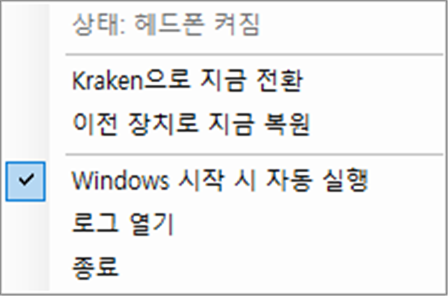
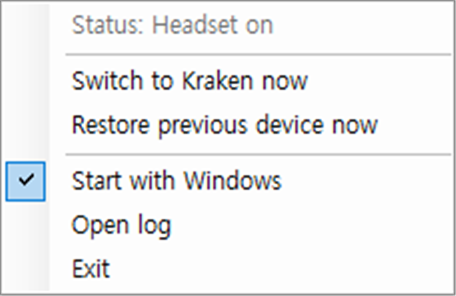
Localize UI: English by default, Korean when Windows UI language is Korean
- language=auto|en|ko in KrakenAutoSwitch.ini
- English log messages
- Add tools/make-screenshots.ps1, English and Korean tray menu screenshots
- README: fix ini example (comments on their own lines)

diff --git a/KrakenAutoSwitch.cs b/KrakenAutoSwitch.cs
@@ -36,28 +36,35 @@ class TrayApp : ApplicationContext
     readonly string dir = AppDomain.CurrentDomain.BaseDirectory;
     readonly NotifyIcon tray = new NotifyIcon();
     readonly SynchronizationContext ui = SynchronizationContext.Current ?? new WindowsFormsSynchronizationContext();
-    readonly ToolStripMenuItem stateItem = new ToolStripMenuItem("상태: 알 수 없음") { Enabled = false };
-    readonly ToolStripMenuItem autoStartItem = new ToolStripMenuItem("Windows 시작 시 자동 실행");
+    ToolStripMenuItem stateItem, autoStartItem;
     int state = -1; // -1 unknown, 0 off, 1 on
     string gameName = "Razer Kraken V4 - Game", chatName = "Razer Kraken V4 - Chat", fallbackName = "";
-    string[] saved = new string[3]; // 직전 기본 장치 id (console, multimedia, communications)
+    string lang = "auto"; // auto | en | ko
+    bool ko;
+    string[] saved = new string[3]; // previous default device ids (console, multimedia, communications)
+
+    // UI text: English by default, Korean when the OS UI language is Korean (or language=ko)
+    string T(string en, string kr) { return ko ? kr : en; }
 
     public TrayApp()
     {
         LoadConfig();
         LoadSaved();
+        ko = lang == "ko" || (lang == "auto" && System.Globalization.CultureInfo.CurrentUICulture.TwoLetterISOLanguageName == "ko");
 
+        stateItem = new ToolStripMenuItem("") { Enabled = false };
+        autoStartItem = new ToolStripMenuItem(T("Start with Windows", "Windows 시작 시 자동 실행"));
         var menu = new ContextMenuStrip();
         menu.Items.Add(stateItem);
         menu.Items.Add(new ToolStripSeparator());
-        menu.Items.Add("Kraken으로 지금 전환", null, (s, e) => SwitchTo(true));
-        menu.Items.Add("이전 장치로 지금 복원", null, (s, e) => SwitchTo(false));
+        menu.Items.Add(T("Switch to Kraken now", "Kraken으로 지금 전환"), null, (s, e) => SwitchTo(true));
+        menu.Items.Add(T("Restore previous device now", "이전 장치로 지금 복원"), null, (s, e) => SwitchTo(false));
         menu.Items.Add(new ToolStripSeparator());
         autoStartItem.Checked = IsAutoStart();
         autoStartItem.Click += (s, e) => { SetAutoStart(!IsAutoStart()); autoStartItem.Checked = IsAutoStart(); };
         menu.Items.Add(autoStartItem);
-        menu.Items.Add("로그 열기", null, (s, e) => { try { System.Diagnostics.Process.Start(Path.Combine(dir, "KrakenAutoSwitch.log")); } catch { } });
-        menu.Items.Add("종료", null, (s, e) => { tray.Visible = false; Application.Exit(); });
+        menu.Items.Add(T("Open log", "로그 열기"), null, (s, e) => { try { System.Diagnostics.Process.Start(Path.Combine(dir, "KrakenAutoSwitch.log")); } catch { } });
+        menu.Items.Add(T("Exit", "종료"), null, (s, e) => { tray.Visible = false; Application.Exit(); });
         tray.ContextMenuStrip = menu;
         SetState(-1);
         tray.Visible = true;
@@ -70,13 +77,13 @@ class TrayApp : ApplicationContext
     {
         string p = Path.Combine(dir, "KrakenAutoSwitch.ini");
         if (!File.Exists(p))
-            File.WriteAllText(p, "; 장치 이름은 '포함' 일치입니다 (소리 설정에 보이는 이름 일부).\r\ngame=" + gameName + "\r\nchat=" + chatName + "\r\n; 헤드폰을 끌 때 저장된 직전 장치가 없으면 이 장치로 전환 (비우면 아무것도 안 함)\r\nfallback=\r\n", Encoding.UTF8);
+            File.WriteAllText(p, "; Device names are substring matches (part of the name shown in Sound settings). / 장치 이름은 '포함' 일치입니다.\r\ngame=" + gameName + "\r\nchat=" + chatName + "\r\n; Device to switch to on power-off if no previous device was remembered (empty = do nothing).\r\n; 헤드폰을 끌 때 저장된 직전 장치가 없으면 이 장치로 전환 (비우면 아무것도 안 함)\r\nfallback=\r\n; UI language: auto (follow Windows) | en | ko\r\nlanguage=auto\r\n", Encoding.UTF8);
         foreach (var line in File.ReadAllLines(p, Encoding.UTF8))
         {
             int i = line.IndexOf('=');
             if (line.StartsWith(";") || i < 0) continue;
             string k = line.Substring(0, i).Trim().ToLower(), v = line.Substring(i + 1).Trim();
-            if (k == "game") gameName = v; else if (k == "chat") chatName = v; else if (k == "fallback") fallbackName = v;
+            if (k == "game") gameName = v; else if (k == "chat") chatName = v; else if (k == "fallback") fallbackName = v; else if (k == "language") lang = v.ToLower();
         }
     }
 
@@ -122,9 +129,9 @@ class TrayApp : ApplicationContext
             tray.Icon = Icon.FromHandle(bmp.GetHicon());
             if (old != null) old.Dispose();
         }
-        string t = s == 1 ? "헤드폰 켜짐" : s == 0 ? "헤드폰 꺼짐" : "헤드폰 상태 알 수 없음 (다음 on/off 때 확정)";
-        stateItem.Text = "상태: " + t;
-        tray.Text = "Kraken 자동 전환 - " + t;
+        string t = s == 1 ? T("Headset on", "헤드폰 켜짐") : s == 0 ? T("Headset off", "헤드폰 꺼짐") : T("Headset state unknown (until next on/off)", "헤드폰 상태 알 수 없음 (다음 on/off 때 확정)");
+        stateItem.Text = T("Status: ", "상태: ") + t;
+        tray.Text = T("Kraken Auto Switch - ", "Kraken 자동 전환 - ") + t;
     }
 
     // ---------- HID 감시 ----------
@@ -137,7 +144,7 @@ class TrayApp : ApplicationContext
                 string path = Hid.FindPath(0x1532, 0x056C, 0xFF14);
                 if (path != null) Hid.ReadLoop(path, OnReport);
             }
-            catch (Exception ex) { Log("HID 오류: " + ex.Message); }
+            catch (Exception ex) { Log("HID error: " + ex.Message); }
             Thread.Sleep(2000); // 동글 재연결 / 절전 복귀 대비
         }
     }
@@ -153,7 +160,7 @@ class TrayApp : ApplicationContext
     void Apply(int s)
     {
         if (s == state) return;
-        Log("헤드폰 " + (s == 1 ? "ON" : "OFF"));
+        Log("Headset " + (s == 1 ? "ON" : "OFF"));
         SetState(s);
         SwitchTo(s == 1);
     }
@@ -168,13 +175,13 @@ class TrayApp : ApplicationContext
             var game = find(gameName); var chat = find(chatName) ?? game;
             if (kraken)
             {
-                if (game == null) { Log("Kraken Game 장치를 찾지 못함"); return; }
+                if (game == null) { Log("Kraken Game device not found"); return; }
                 // 이미 Kraken 이 기본이 아닐 때만 '직전 장치'로 저장
                 var cur = new[] { Audio.GetDefault(0), Audio.GetDefault(1), Audio.GetDefault(2) };
                 bool curIsKraken = cur[0] == game.Id || (chat != null && cur[0] == chat.Id);
                 if (!curIsKraken) { saved = cur; SaveSaved(); }
                 Audio.SetDefault(game.Id, 0); Audio.SetDefault(game.Id, 1); Audio.SetDefault(chat.Id, 2);
-                Log("-> " + game.Name + " / 통신: " + chat.Name);
+                Log("-> " + game.Name + " / comms: " + chat.Name);
             }
             else
             {
@@ -188,11 +195,11 @@ class TrayApp : ApplicationContext
                     if (id == null) continue;
                     Audio.SetDefault(id, role);
                 }
-                Log("복원: " + string.Join(" | ", Array.ConvertAll(new[] { Audio.GetDefault(0), Audio.GetDefault(1), Audio.GetDefault(2) }, id => devs.Find(d => d.Id == id) != null ? devs.Find(d => d.Id == id).Name : "?")));
+                Log("Restored: " + string.Join(" | ", Array.ConvertAll(new[] { Audio.GetDefault(0), Audio.GetDefault(1), Audio.GetDefault(2) }, id => devs.Find(d => d.Id == id) != null ? devs.Find(d => d.Id == id).Name : "?")));
             }
-            tray.ShowBalloonTip(1500, "Kraken 자동 전환", kraken ? "Kraken 으로 출력 전환" : "이전 출력 장치로 복원", ToolTipIcon.None);
+            tray.ShowBalloonTip(1500, T("Kraken Auto Switch", "Kraken 자동 전환"), kraken ? T("Output switched to Kraken", "Kraken 으로 출력 전환") : T("Restored previous output device", "이전 출력 장치로 복원"), ToolTipIcon.None);
         }
-        catch (Exception ex) { Log("전환 오류: " + ex); }
+        catch (Exception ex) { Log("Switch error: " + ex); }
     }
 }
 

diff --git a/README.md b/README.md
@@ -32,8 +32,8 @@ Windows keeps the dongle's audio devices "connected" even when the headset is of
    Download `KrakenAutoSwitch.exe` from [Releases](https://github.com/TresureStrong-Gold/razer-kraken-v4-auto-switch/releases/latest).
 2. 원하는 폴더에 넣고 실행 (설정·로그 파일이 같은 폴더에 생성됩니다. `Downloads`보다 `%LOCALAPPDATA%\KrakenAutoSwitch` 같은 고정 폴더를 권장)
    Put it in a permanent folder (settings and log files are created next to it) and run it.
-3. 트레이 아이콘 우클릭 → "Windows 시작 시 자동 실행" 체크
-   Right-click the tray icon and enable "Windows 시작 시 자동 실행" (start with Windows).
+3. 트레이 아이콘 우클릭 → "Start with Windows"(한국어 Windows 에서는 "Windows 시작 시 자동 실행") 체크
+   Right-click the tray icon and enable "Start with Windows".
 
 > ⚠ **SmartScreen 경고 / SmartScreen warning**
 > 코드 서명이 없는 개인 프로젝트라 "Windows의 PC 보호" 경고가 뜰 수 있습니다. "추가 정보 → 실행"을 누르세요. 못 미더우면 아래 방법 2로 소스에서 직접 빌드할 수 있고, Releases 의 SHA-256 으로 파일을 검증할 수 있습니다.
@@ -45,7 +45,9 @@ Run `build.bat` (uses only the .NET Framework compiler that ships with Windows; 
 
 ## 사용법 / Usage
 
-![Tray menu](docs/tray-menu.png)
+English UI (default) / 한국어 UI (Windows 표시 언어가 한국어면 자동):
+
+![Tray menu (English)](docs/tray-menu.png) ![트레이 메뉴 (한국어)](docs/tray-menu.ko.png)
 
 - 아이콘 색: 초록=켜짐, 회색=꺼짐, 주황=아직 모름(첫 on/off 이벤트 전)
   Icon colors: green = on, gray = off, orange = not known yet (until the first on/off event).
@@ -55,9 +57,13 @@ Run `build.bat` (uses only the .NET Framework compiler that ships with Windows; 
 첫 실행 시 `KrakenAutoSwitch.ini`가 생성됩니다. / A `KrakenAutoSwitch.ini` is created on first run.
 
 ```ini
-game=Razer Kraken V4 - Game   ; device name, substring match / 장치 이름 '포함' 일치
+; Device names are substring matches / 장치 이름은 '포함' 일치
+game=Razer Kraken V4 - Game
 chat=Razer Kraken V4 - Chat
-fallback=                     ; device to restore if nothing was remembered / 저장된 장치가 없을 때 복원할 장치
+; Device to restore if nothing was remembered / 저장된 장치가 없을 때 복원할 장치
+fallback=
+; UI language: auto (follow Windows) | en | ko
+language=auto
 ```
 
 Windows 가 한국어가 아니어도 장치 이름이 `Razer Kraken V4 - Game` 을 포함하면 동작합니다.
